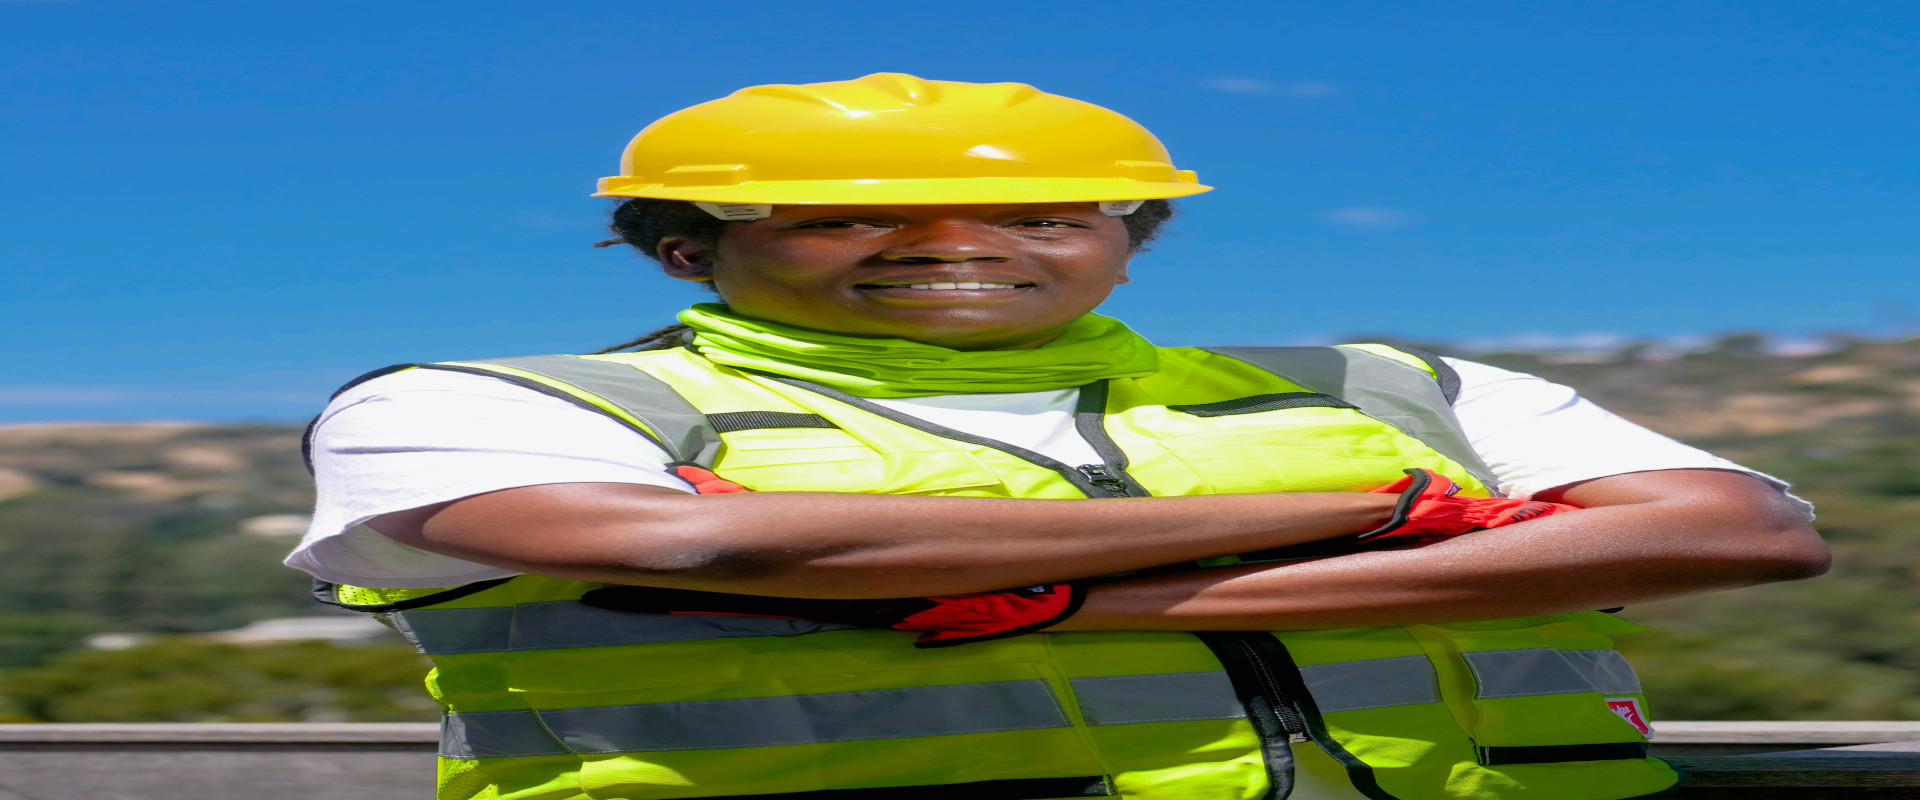
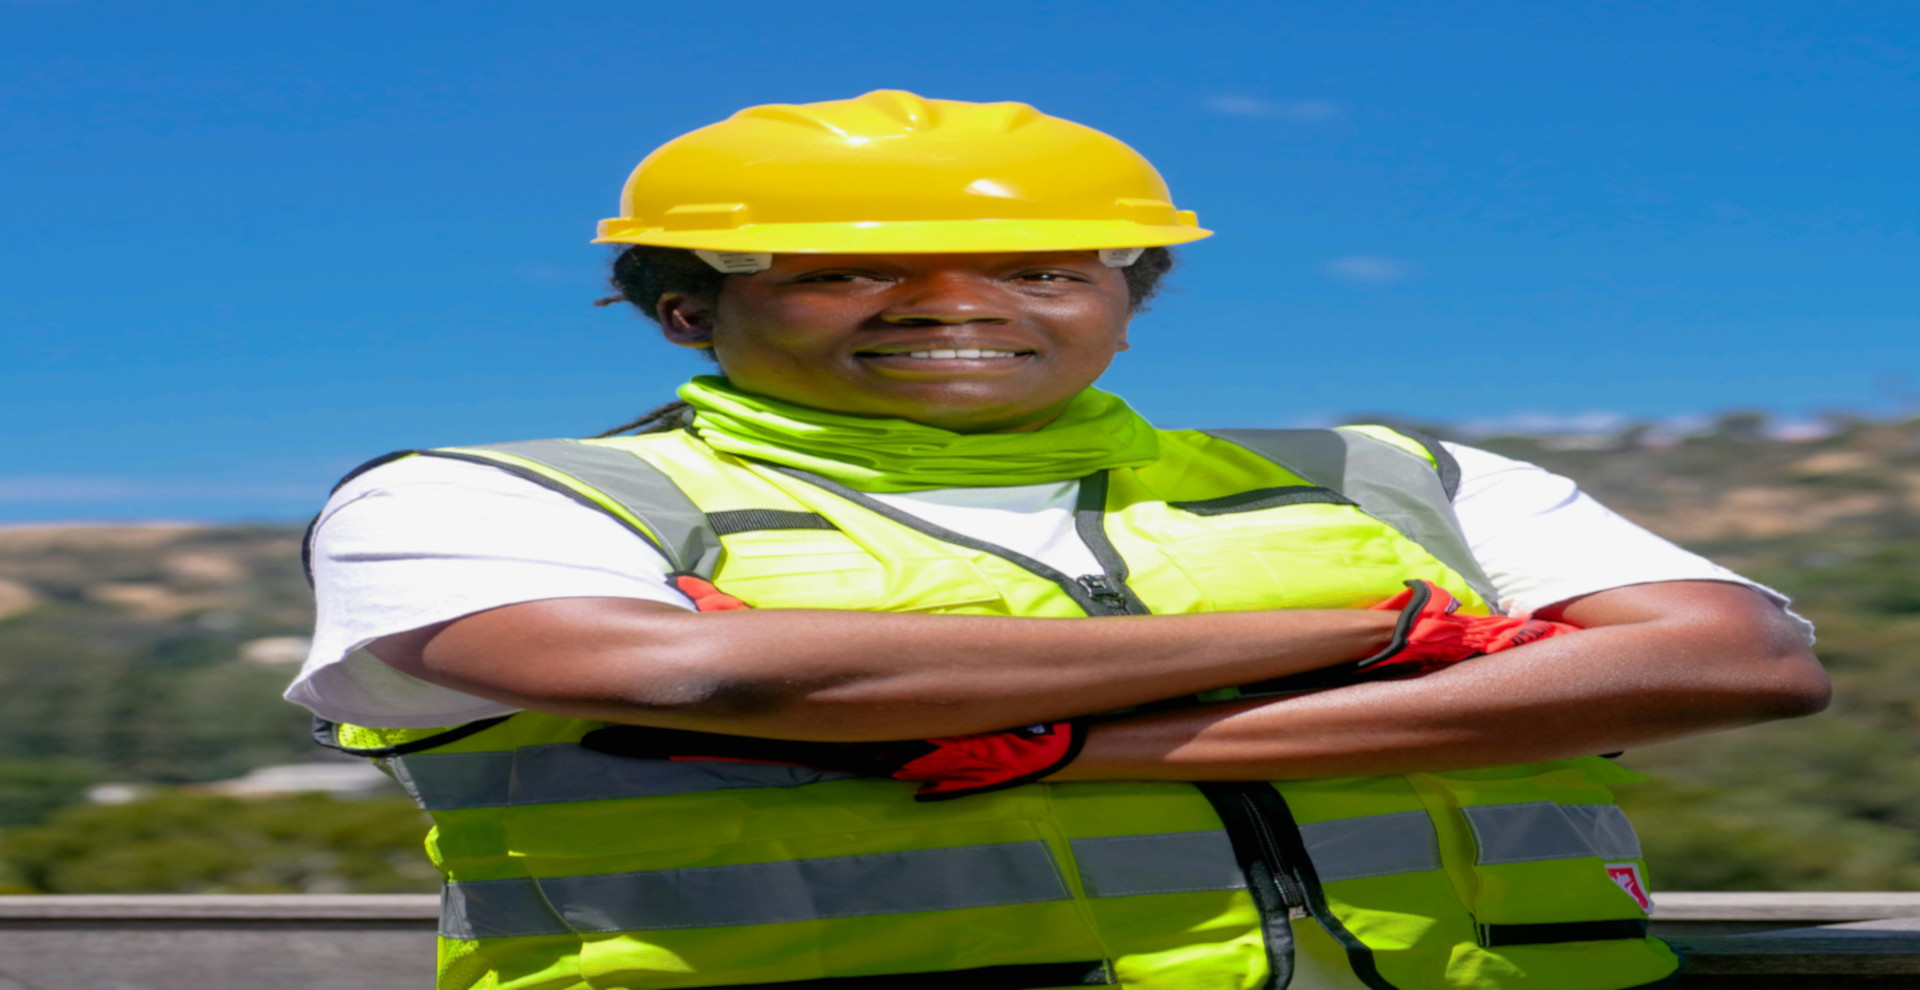
Imagem alterada
Alterei o tamanho da imagem.

diff --git a/index.html b/index.html
@@ -35,7 +35,7 @@
                <p>Onde a visão encontra a realidade . Somos um estúdio de arquitetura dedicado a transformar espaços e redefinir o viver. Acreditamos que a inovação e o design funcional devem andar de mãos dadas com a sustentabilidade. Desde 2022, a Gokil combina expertise técnica com uma abordagem criativa e audaciosa, entregando projetos que não apenas atendem, mas superam as expectativas. Seu futuro começa no design que criamos hoje.</p>
 
                <picture>
-                <source media="(min-width: 320px)" srcset="imagens/Engenheira Civil alterado.jpg">
+                
                 <img src="imagens/Engenheira Civil alterado.jpg" alt="Engenheira Cívil."></picture>
             </article>
 
@@ -48,9 +48,6 @@
             <article>
                 <p>Lorem ipsum dolor, sit amet consectetur adipisicing elit. Quas ducimus cumque blanditiis ullam fugiat ut facere, quis labore dolor, optio ex expedita praesentium necessitatibus adipisci, nisi voluptate. Dolores, nobis facilis?</p>
             </article>
-
-            <div></div>
-            <div></div>
         </section>
 
         <section id="third">

diff --git a/style.css b/style.css
@@ -77,6 +77,7 @@ section#second{
     margin-top: 20px;
 }
 
+
 section#third{
     border-radius: 10px;
     padding: 100px;
